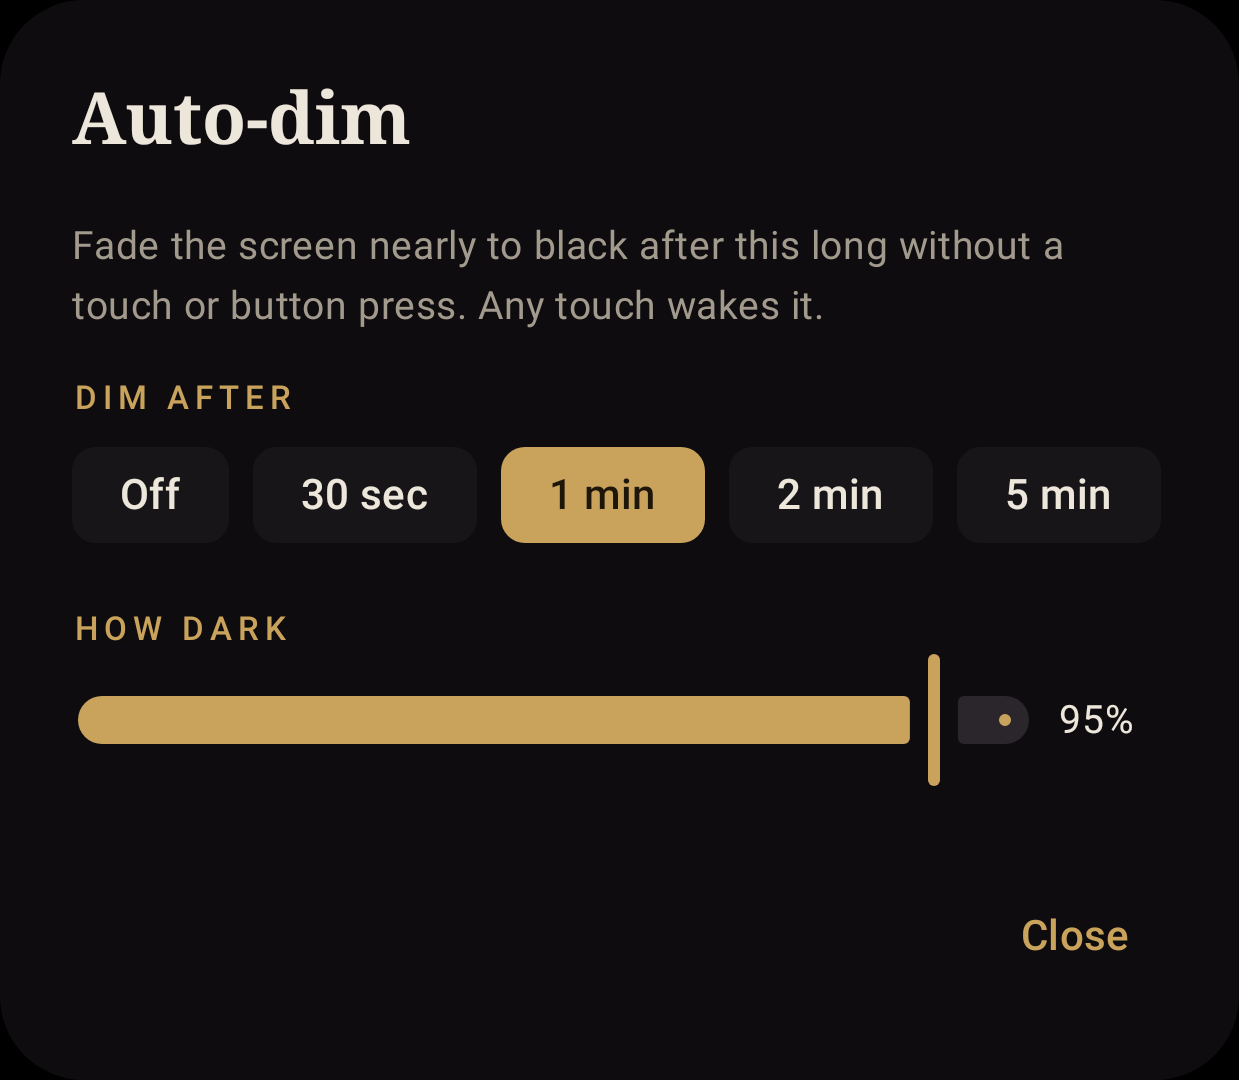
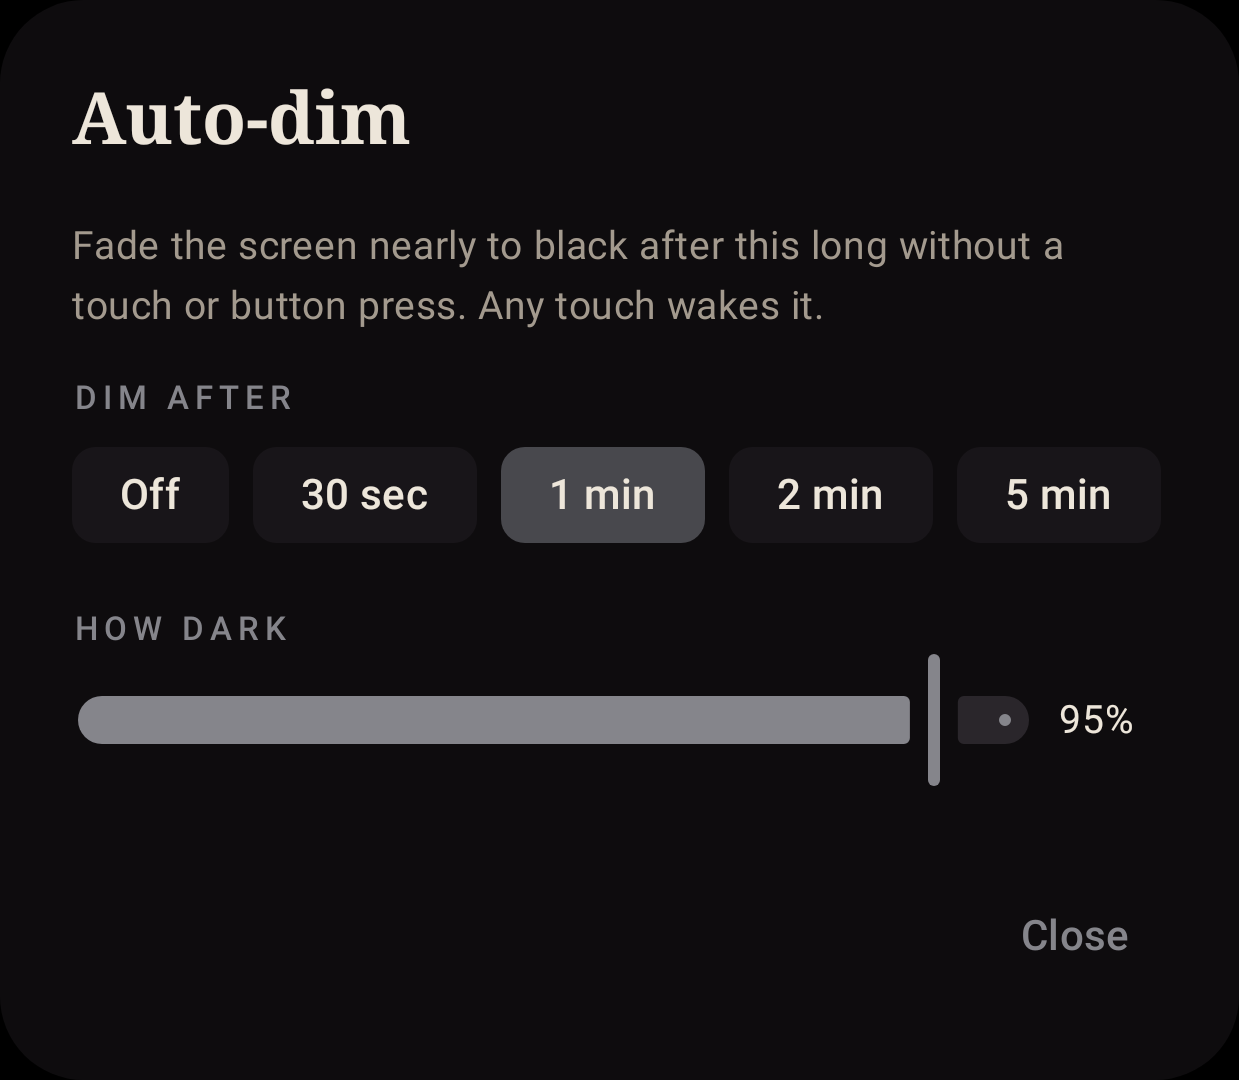
v1.26: grey accents instead of gold; refreshed screenshots
Claude-Session: https://claude.ai/code/session_01KuruswHwXCNf9JFJaE8atM

diff --git a/release-notes/v1.26.0.md b/release-notes/v1.26.0.md
@@ -1,0 +1,4 @@
+WalkThor 1.26 swaps the gold accents for a calmer grey look.
+
+## Changed
+- **Grey instead of gold.** Buttons, selected options and the done ticks are now a medium-dark grey with light text, and the small headings, icons and accents that were gold are a medium grey. This covers the shelf, Now playing, the dimmed screen, the reader, settings, the setup page and the boot animation. Search highlights on guide pages stay yellow, so matches are easy to spot.
